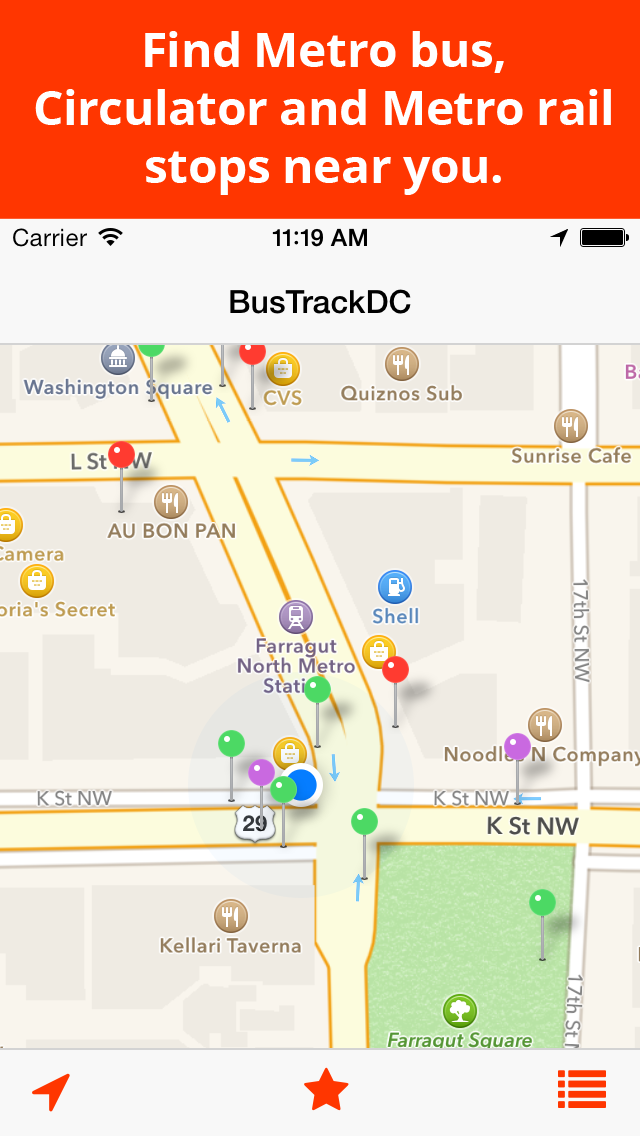
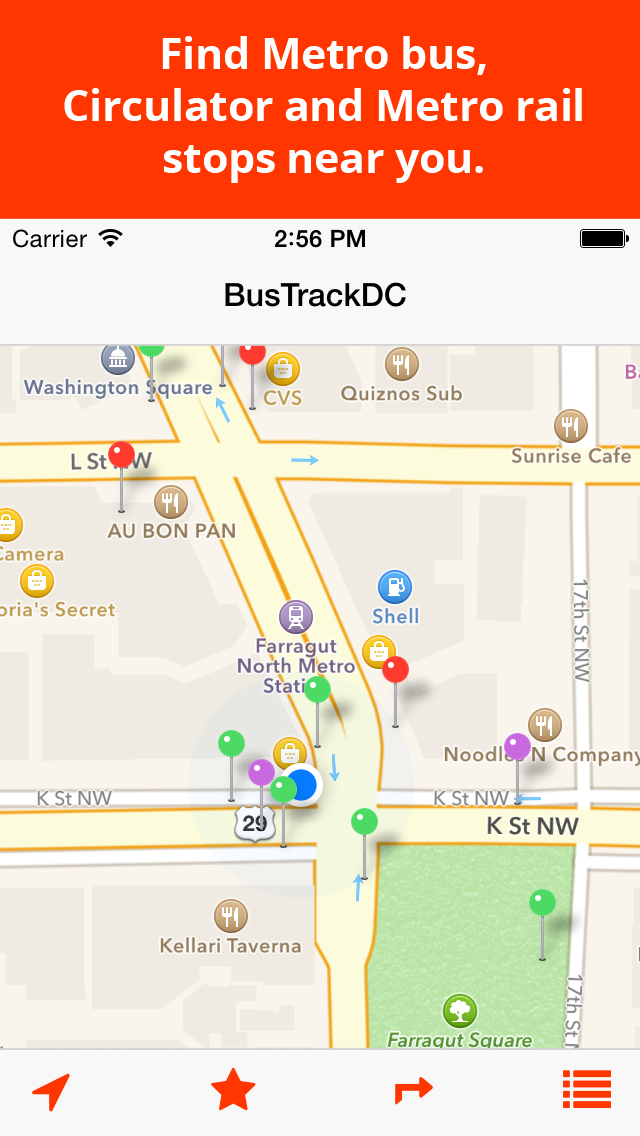
version 1.8 update

diff --git a/index.html b/index.html
@@ -91,13 +91,13 @@
         <header>
         	<a href="https://itunes.apple.com/us/app/bustrackdc/id597188689?ls=1&amp;mt=8"><img src="images/bustrack-icon.png" class="header-image" /></a>
           <h1>BusTrackDC</h1>
-          <small>version 1.7</small>
+          <small>version 1.8</small>
           <h2>Live in DC and ride Metro bus, rail, or the Circulator? BusTrackDC tells you when the next one arrives!</h2>
         </header>
         
 
         
-       <p class="clear padding-top"><strong>New smoother and faster interface for iOS8 and Android!</strong> <br/>Get BusTrackDC for FREE for iOS and Android -- <a href="https://itunes.apple.com/us/app/bustrackdc/id597188689?ls=1&amp;mt=8">click here for iOS</a> and <a href="https://play.google.com/store/apps/details?id=com.JasonRosenbaum.BusTrackDC">here for Android</a>!</p>
+       <p class="clear padding-top"><strong>Now with a trip planner -- FREE for iOS8 and Android!</strong> <br/><a href="https://itunes.apple.com/us/app/bustrackdc/id597188689?ls=1&amp;mt=8">Click here for iOS</a> and <a href="https://play.google.com/store/apps/details?id=com.JasonRosenbaum.BusTrackDC">here for Android</a>!</p>
 
         <div class="center">       
 	        <a href="https://itunes.apple.com/us/app/bustrackdc/id597188689?ls=1&amp;mt=8" ><img class="appstore" src="https://raw.github.com/j-ro/WheresTheBusDC/master/appstore/appstore.png" height="76"></a> 
@@ -122,7 +122,7 @@
        
 
 
-<p><strong>Where's the nearest Metro bus, Circulator, or Metro rail stop? When's my bus or train coming? Is that bus or train going my way?</strong> Find out in real time with BusTrackDC. Then save your favorite stops for easy access or search for route maps!</p>
+<p><strong>Where's the nearest Metro bus, Circulator, or Metro rail stop? When's my bus or train coming? Can I make it from here to there on public transit? Is that bus or train going my way?</strong> Find out in real time with BusTrackDC. Plan your trip with transit directions, save your favorite stops for easy access, or search for route maps!</p>
 
 <p><strong><a href="https://itunes.apple.com/us/app/bustrackdc/id597188689?ls=1&amp;mt=8">Click here to download BusTrackDC for iOS from the app store -- FREE!</a></strong><br/>
 <strong><a href="https://play.google.com/store/apps/details?id=com.JasonRosenbaum.BusTrackDC">Click here to download BusTrackDC for Android from the play store -- FREE!</a></strong></p>
